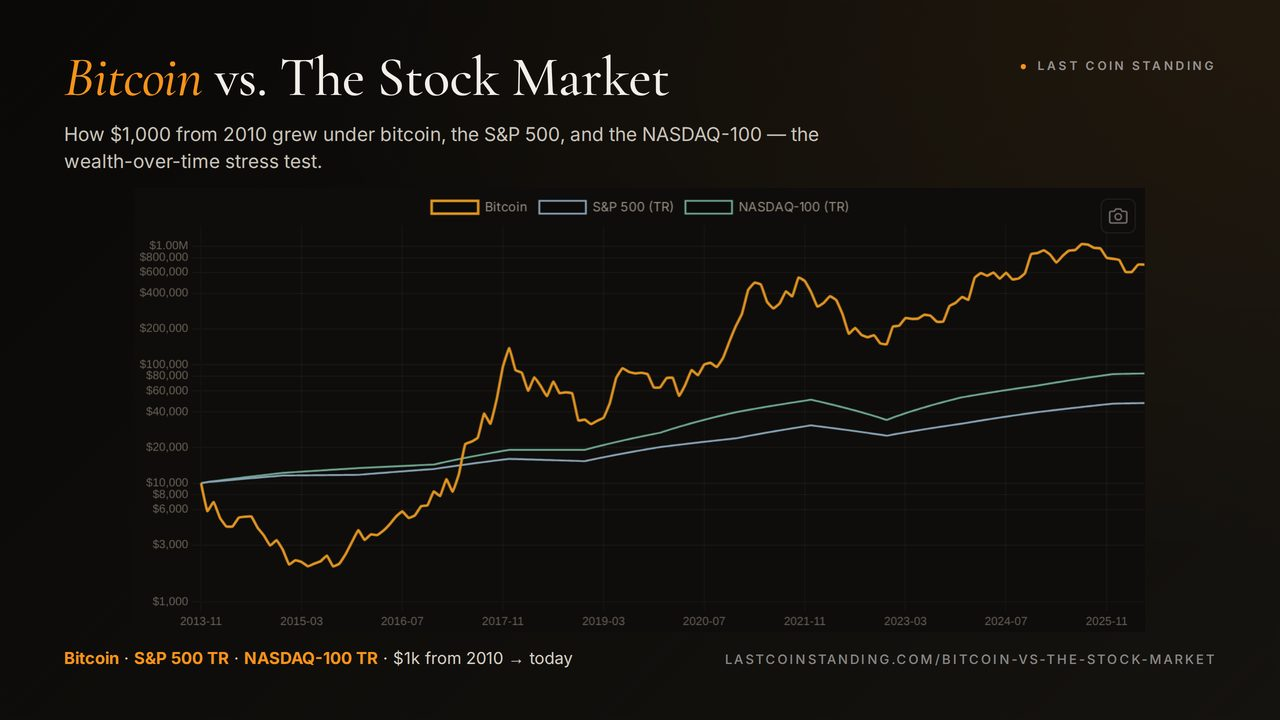
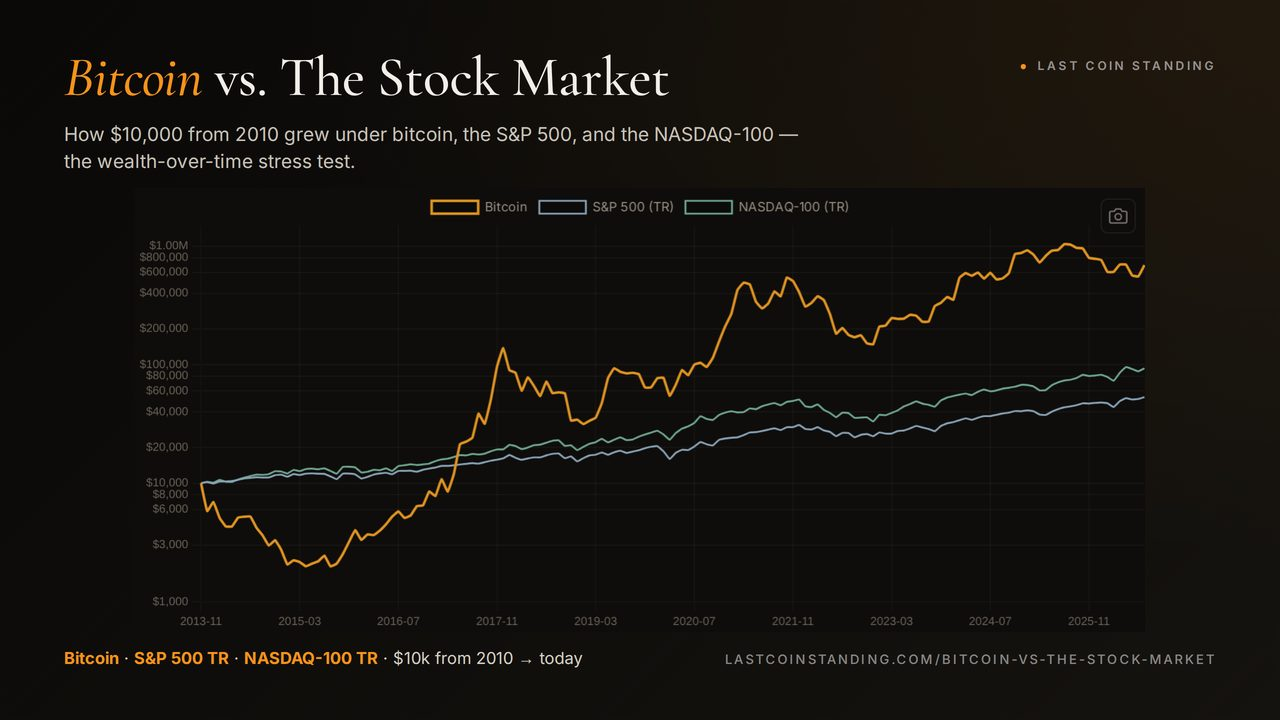
OG: regenerate Heatmap and BvSM cards after the comparator-series fix (#99)
Both cards had been byte-identical on regeneration since May — the finding
that surfaced the interpolated series. Right edge now Aug 2026; heatmap
strip carries the reproducible stats. Mirror line bumped to 2026-09-17.

diff --git a/MONTHLY_REFRESH_CHECKLIST.md b/MONTHLY_REFRESH_CHECKLIST.md
@@ -766,7 +766,7 @@ The publish-day habit (`NEW_PAGE_CHECKLIST`) covers a single new page on the day
 
 ## 10. Claude project mirror refresh
 
-**Last mirror refresh: 2026-09-13** (update this line BEFORE exporting,
+**Last mirror refresh: 2026-09-17** (update this line BEFORE exporting,
 not after — see step 3).
 
 The Claude project holds a copy of the repo's strategy and design docs. That
